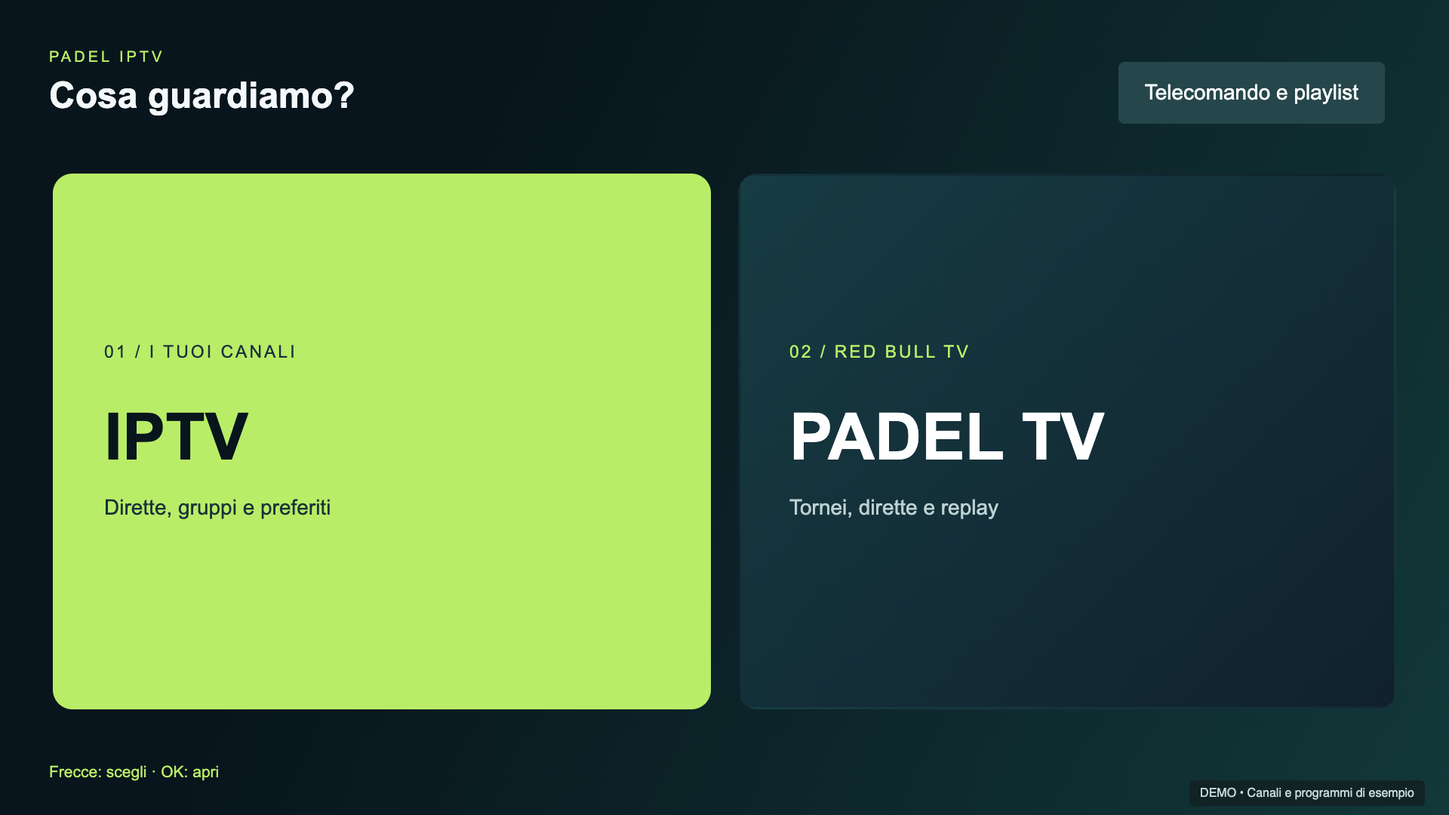
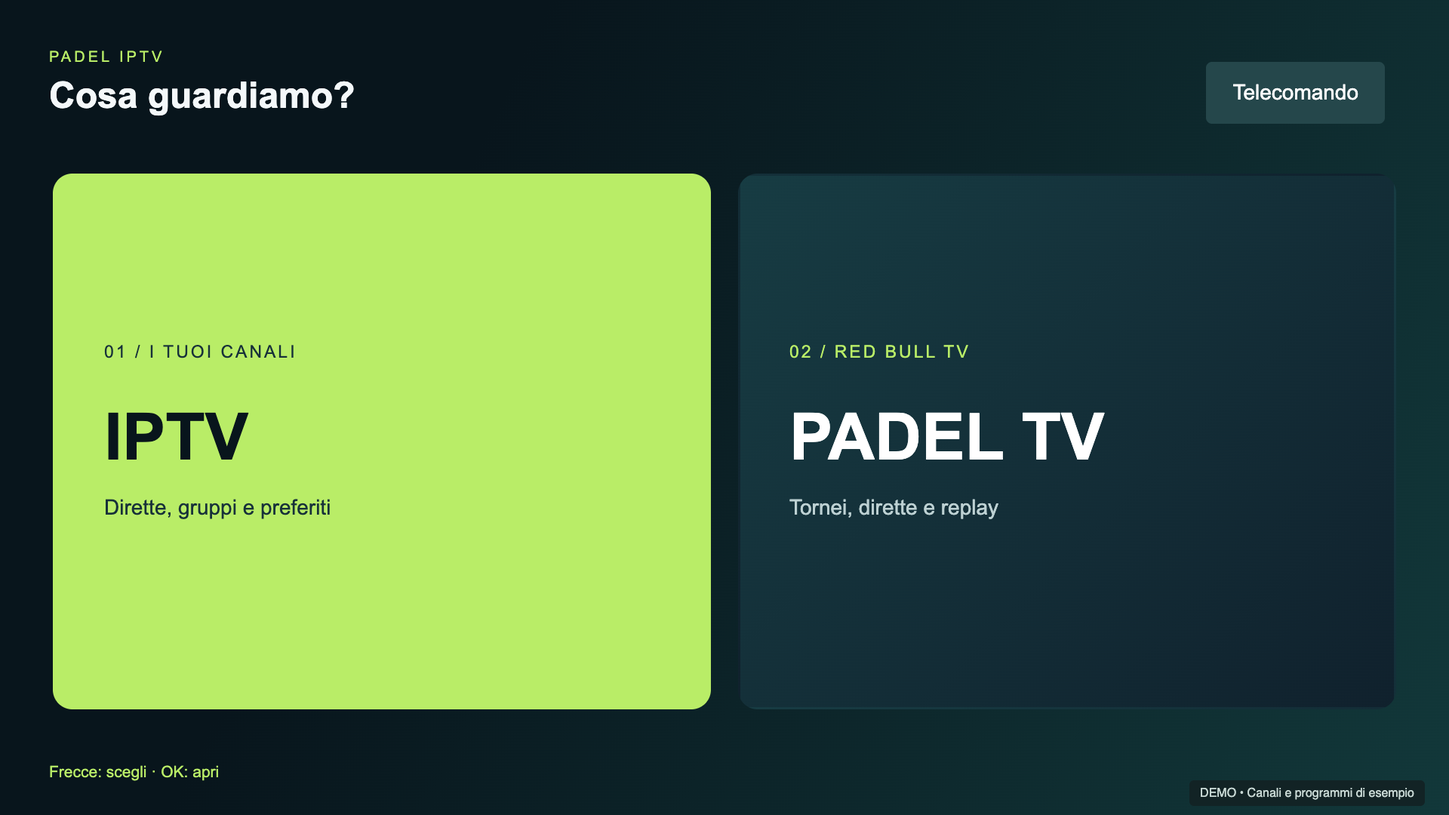
Fix Samsung adaptive resolution with exact bitrate variant matching

Changed region(s): [[0.75, 0.0611, 0.9375, 0.1528]]

diff --git a/tizen/avplay-media.js b/tizen/avplay-media.js
@@ -6,9 +6,14 @@ function create(av,emit){
  function fail(e){wantPlay=false;paused=true;error={code:4,message:String(e&&e.message||e)};fire('error');}
  function close(){generation++;prepared=false;wantPlay=false;paused=true;time=0;duration=NaN;tracks=[];selected=-1;width=0;height=0;lastSizeCheck=-1;error=null;try{if(av.getState()!=='NONE'){try{av.stop();}catch(ignore){}av.close();}}catch(ignore){}}
  function refreshTracks(){var list=av.getTotalTrackInfo()||[],current=av.getCurrentStreamInfo()||[];current.forEach(function(t){if(t.type==='AUDIO')selected=t.index;});list.forEach(function(t){if(t.type!=='VIDEO')return;try{var info=JSON.parse(t.extra_info||'{}');width=+info.Width||+info.width||0;height=+info.Height||+info.height||0;}catch(ignore){}});tracks=list.filter(function(t){return t.type==='AUDIO';}).map(function(t){var info={};try{info=JSON.parse(t.extra_info||'{}');}catch(ignore){}var track={index:t.index,language:info.language||info.lang||'',label:info.track_lang||info.language||''};Object.defineProperty(track,'enabled',{get:function(){return selected===t.index;},set:function(value){if(!value||selected===t.index)return;try{av.setSelectTrack('AUDIO',t.index);selected=t.index;fire('audiochange');}catch(e){fire('audioselectionerror');}}});return track;});tracks.addEventListener=function(name,fn){if(name==='change')api.onAudioChange=fn;};}
- function refreshVideoSize(){if(!prepared)return;try{(av.getCurrentStreamInfo()||[]).forEach(function(t){if(t.type!=='VIDEO')return;var info=JSON.parse(t.extra_info||'{}'),w=+info.Width||+info.width||0,h=+info.Height||+info.height||0;if(w&&h){width=w;height=h;}});}catch(ignore){}}
+ function refreshVideoSize(){if(!prepared)return;try{(av.getCurrentStreamInfo()||[]).forEach(function(t){if(t.type!=='VIDEO')return;var info=JSON.parse(t.extra_info||'{}'),w=+info.Width||+info.width||0,h=+info.Height||+info.height||0,bitrate=+info.Bit_rate||+info.bit_rate||+info.bitrate||0;
+ // Tizen 4 HLS keeps the initial Width/Height/index, but updates Bit_rate.
+ // Match only the exact bitrate advertised by AVPlay, never estimate pixels.
+ if(bitrate){var matches={},count=0,match=null;(av.getTotalTrackInfo()||[]).forEach(function(v){if(v.type!=='VIDEO')return;var d={};try{d=JSON.parse(v.extra_info||'{}');}catch(ignore){return;}var rate=+d.Bit_rate||+d.bit_rate||+d.bitrate||0,vw=+d.Width||+d.width||0,vh=+d.Height||+d.height||0,key=vw+'x'+vh;if(rate===bitrate&&vw&&vh&&!matches[key]){matches[key]=true;count++;match={width:vw,height:vh};}});if(count===1){w=match.width;h=match.height;}else if(count>1){w=0;h=0;}}
+ width=w;height=h;});}catch(ignore){}}
+
  function play(){wantPlay=true;if(!prepared)return;try{av.play();paused=false;fire('playing');}catch(e){fail(e);}}
- var api={refreshVideoSize:refreshVideoSize,addEventListener:null,onAudioChange:null,load:function(){var next=source;close();if(!next)return;source=next;var mine=generation;try{av.open(source);av.setDisplayRect(0,0,1920,1080);av.setDisplayMethod('PLAYER_DISPLAY_MODE_LETTER_BOX');av.setListener({onbufferingstart:function(){if(mine===generation)fire('waiting');},onbufferingcomplete:function(){if(mine===generation&&!paused)fire('playing');},oncurrentplaytime:function(ms){if(mine!==generation)return;time=ms/1000;if(lastSizeCheck<0||Math.abs(time-lastSizeCheck)>=2){lastSizeCheck=time;refreshVideoSize();}fire('timeupdate');},onstreamcompleted:function(){if(mine!==generation)return;paused=true;fire('ended');},onerror:function(e){if(mine===generation)fail(e);}});av.prepareAsync(function(){if(mine!==generation)return;prepared=true;duration=av.getDuration()/1000;try{refreshTracks();refreshVideoSize();}catch(ignore){}fire('loadedmetadata');if(wantPlay)play();},function(e){if(mine===generation)fail(e);});}catch(e){fail(e);}},play:play,pause:function(){wantPlay=false;if(!prepared)return;try{if(av.getState()==='PLAYING'){av.pause();paused=true;fire('pause');}}catch(e){fail(e);}},removeAttribute:function(name){if(name==='src')source='';},close:close};
+ var api={refreshVideoSize:refreshVideoSize,addEventListener:null,onAudioChange:null,load:function(){var next=source;close();if(!next)return;source=next;var mine=generation;try{av.open(source);av.setDisplayRect(0,0,1920,1080);av.setDisplayMethod('PLAYER_DISPLAY_MODE_LETTER_BOX');av.setListener({onevent:function(name){if(mine!==generation)return;if(name==='PLAYER_MSG_RESOLUTION_CHANGED'||name==='PLAYER_MSG_BITRATE_CHANGE'){refreshVideoSize();fire('resize');}},onbufferingstart:function(){if(mine===generation)fire('waiting');},onbufferingcomplete:function(){if(mine===generation&&!paused)fire('playing');},oncurrentplaytime:function(ms){if(mine!==generation)return;time=ms/1000;if(lastSizeCheck<0||Math.abs(time-lastSizeCheck)>=2){lastSizeCheck=time;refreshVideoSize();}fire('timeupdate');},onstreamcompleted:function(){if(mine!==generation)return;paused=true;fire('ended');},onerror:function(e){if(mine===generation)fail(e);}});av.prepareAsync(function(){if(mine!==generation)return;prepared=true;duration=av.getDuration()/1000;try{refreshTracks();refreshVideoSize();}catch(ignore){}fire('loadedmetadata');if(wantPlay)play();},function(e){if(mine===generation)fail(e);});}catch(e){fail(e);}},play:play,pause:function(){wantPlay=false;if(!prepared)return;try{if(av.getState()==='PLAYING'){av.pause();paused=true;fire('pause');}}catch(e){fail(e);}},removeAttribute:function(name){if(name==='src')source='';},close:close};
  Object.defineProperties(api,{src:{get:function(){return source;},set:function(v){source=String(v||'');}},paused:{get:function(){return paused;}},duration:{get:function(){return duration;}},currentTime:{get:function(){return time;},set:function(v){if(!prepared||!isFinite(v))return;var mine=generation;av.seekTo(Math.max(0,v*1000),function(){if(mine===generation){time=v;fire('timeupdate');}},function(e){if(mine===generation)fail(e);});}},error:{get:function(){return error;}},audioTracks:{get:function(){tracks.addEventListener=function(name,fn){if(name==='change')api.onAudioChange=fn;};return tracks;}},videoWidth:{get:function(){return width;}},videoHeight:{get:function(){return height;}},readyState:{get:function(){return prepared?4:0;}}});
  return api;
 }

diff --git a/docs/index.html b/docs/index.html
@@ -1,6 +1,6 @@
 <!doctype html><html lang="it"><head><meta charset="utf-8"><meta name="viewport" content="width=device-width,initial-scale=1"><meta name="description" content="Padel IPTV per LG webOS e Samsung Tizen: i tuoi canali M3U, guida TV, tornei di padel e telecomando dal cellulare."><meta name="theme-color" content="#091b20"><title>Padel IPTV — I tuoi canali. Il tuo padel.</title><link rel="icon" href="assets/icon.svg"><link rel="stylesheet" href="style.css"></head><body>
 <header class="nav"><a class="brand" href="#"><img src="assets/icon.svg" alt="" width="42" height="42">Padel IPTV</a><nav aria-label="Principale"><a href="#funzioni">Funzioni</a><a href="#schermate">Schermate</a><a href="https://github.com/spacecdr/PadelIPTV">GitHub ↗</a></nav></header>
-<main><section class="hero"><div class="intro"><p class="eyebrow">LG WEBOS + SAMSUNG TIZEN / v0.6.3</p><h1>I tuoi canali.<br>Il tuo <em>padel.</em></h1><p class="lead">Dal programma di stasera alla prossima semifinale. IPTV e Padel TV, insieme sul grande schermo.</p><div class="actions"><a class="button primary" href="https://github.com/spacecdr/PadelIPTV/releases/download/v0.6.3/it.pepis.padel.tv_0.6.3_all.ipk">Scarica per webOS <span>↓</span></a><a class="button primary" href="https://github.com/spacecdr/PadelIPTV/releases/download/v0.6.3/PadelIPTV-0.6.3-tizen-arm-unsigned.wgt">Scarica per Tizen ↓</a><a class="button secondary" href="#installa">Come si installa ↗</a></div><p class="fine">LG: .ipk · Samsung: .wgt da firmare · Nessuna playlist inclusa</p></div><a class="hero-screen" href="assets/home.png"><img src="assets/home.png" width="1920" height="1080" alt="Home con IPTV a sinistra e Padel TV a destra"><span>Due sezioni. Un solo telecomando.</span></a></section>
+<main><section class="hero"><div class="intro"><p class="eyebrow">LG WEBOS + SAMSUNG TIZEN / v0.6.4</p><h1>I tuoi canali.<br>Il tuo <em>padel.</em></h1><p class="lead">Dal programma di stasera alla prossima semifinale. IPTV e Padel TV, insieme sul grande schermo.</p><div class="actions"><a class="button primary" href="https://github.com/spacecdr/PadelIPTV/releases/download/v0.6.4/it.pepis.padel.tv_0.6.4_all.ipk">Scarica per webOS <span>↓</span></a><a class="button primary" href="https://github.com/spacecdr/PadelIPTV/releases/download/v0.6.4/PadelIPTV-0.6.4-tizen-arm-unsigned.wgt">Scarica per Tizen ↓</a><a class="button secondary" href="#installa">Come si installa ↗</a></div><p class="fine">LG: .ipk · Samsung: .wgt da firmare · Nessuna playlist inclusa</p></div><a class="hero-screen" href="assets/home.png"><img src="assets/home.png" width="1920" height="1080" alt="Home con IPTV a sinistra e Padel TV a destra"><span>Due sezioni. Un solo telecomando.</span></a></section>
 <div class="strip"><span>01 <b>I tuoi canali M3U</b></span><span>02 <b>Gli ultimi 10 tornei</b></span><span>03 <b>Il telefono fa da telecomando</b></span></div>
 <section id="funzioni"><div class="section-head"><p class="eyebrow">TUTTO A PORTATA DI FRECCIA</p><h2>Pensata per guardare.<br>E continuare a guardare.</h2></div><div class="features"><article><span class="number">01 / IPTV</span><h3>Il canale giusto,<br>senza cercarlo ogni volta.</h3><p>Bouquet, ricerca e preferiti. Metti in cima i gruppi che usi di più e riparti dall'ultimo canale.</p></article><article><span class="number">02 / IN RIPRODUZIONE</span><h3>La lista compare.<br>Il video continua.</h3><p>Premi su per sfogliare i canali in trasparenza. Sinistra e destra scorrono i bouquet; CH+/CH− fanno zapping su Samsung e sul telecomando web. Su LG usa le frecce a info nascoste.</p></article><article><span class="number">03 / GUIDA TV</span><h3>Adesso, dopo.<br>Tutto in un colpo d'occhio.</h3><p>Logo, programma attuale, prossimo appuntamento e avanzamento. Un pannello leggibile, poi di nuovo solo il video.</p></article></div></section>
 <section id="schermate" class="gallery"><div class="section-head"><p class="eyebrow">DENTRO L'APP</p><h2>Dal catalogo al campo.</h2><p>Padel TV mostra il catalogo reale Red Bull TV, acquisito il 10 ottobre 2026. Solo le schermate IPTV usano canali e programmi di esempio, con un campo illustrato.</p></div><div class="shots"><figure><a href="assets/playlist.png"><img loading="lazy" src="assets/playlist.png" width="1920" height="1080" alt="Pannello TV per inserire o modificare URL M3U con indirizzo dimostrativo"></a><figcaption><b>La playlist, direttamente sulla TV.</b> Inserisci o modifica l’URL M3U e premi Salva e carica.</figcaption></figure><figure><a href="assets/channels.png"><img loading="lazy" src="assets/channels.png" width="1920" height="1080" alt="Lista IPTV con canali campione del digitale terrestre"></a><figcaption><b>La tua TV, in ordine.</b> Canali, bouquet e preferiti.</figcaption></figure><figure><a href="assets/player.png"><img loading="lazy" src="assets/player.png" width="1920" height="1080" alt="Pannello trasparente con programma attuale, successivo e avanzamento"></a><figcaption><b>Sai sempre cosa stai guardando.</b> Guida XMLTV in background.</figcaption></figure><figure><a href="assets/overlay.png"><img loading="lazy" src="assets/overlay.png" width="1920" height="1080" alt="Lista canali sovrapposta alla riproduzione"></a><figcaption><b>Cambia idea, senza perdere il filo.</b> Lista sopra il video.</figcaption></figure><figure><a href="assets/padel.png"><img loading="lazy" src="assets/padel.png" width="1920" height="1080" alt="Catalogo reale Red Bull TV con tornei, miniature e sessioni disponibili"></a><figcaption><b>Solo padel.</b> Tornei recenti, replay, dirette e sessioni imminenti.</figcaption></figure><figure><a href="assets/padel-replay.png"><img loading="lazy" src="assets/padel-replay.png" width="1920" height="1080" alt="Replay reali del torneo precedente nel catalogo Padel TV"></a><figcaption><b>Rivivi il torneo.</b> I replay disponibili nel catalogo Red Bull TV.</figcaption></figure></div></section>

diff --git a/app/index.html b/app/index.html
@@ -1,6 +1,6 @@
 <!doctype html><html lang="it"><head><meta charset="utf-8"><meta name="viewport" content="width=1920"><title>Padel IPTV</title><link rel="stylesheet" href="style.css"></head><body>
 <video id="video" playsinline></video>
-<main id="hub"><header><div><div class="eyebrow">PADEL IPTV</div><h1>Cosa guardiamo?</h1></div><button id="remote-open">Telecomando e playlist</button></header><div class="hub-cards"><button id="open-iptv"><span>01 / I TUOI CANALI</span><strong>IPTV</strong><p>Dirette, gruppi e preferiti</p></button><button id="open-padel"><span>02 / RED BULL TV</span><strong>PADEL TV</strong><p>Tornei, dirette e replay</p></button></div><footer>Frecce: scegli · OK: apri</footer></main>
+<main id="hub"><header><div><div class="eyebrow">PADEL IPTV</div><h1>Cosa guardiamo?</h1></div><button id="remote-open">Telecomando</button></header><div class="hub-cards"><button id="open-iptv"><span>01 / I TUOI CANALI</span><strong>IPTV</strong><p>Dirette, gruppi e preferiti</p></button><button id="open-padel"><span>02 / RED BULL TV</span><strong>PADEL TV</strong><p>Tornei, dirette e replay</p></button></div><footer>Frecce: scegli · OK: apri</footer></main>
 <main id="iptv" style="display:none"><header><div><div class="eyebrow">I TUOI CANALI</div><h1>IPTV</h1></div><div class="toolbar"><button id="iptv-home">Home</button><button id="iptv-playlist">Playlist</button><button id="iptv-search-toggle" aria-expanded="false" aria-controls="iptv-search-panel">Cerca</button><button id="iptv-refresh">Aggiorna lista</button><button id="iptv-last">Ultimo canale</button></div></header><div class="iptv-layout"><nav id="iptv-groups"></nav><div class="iptv-content"><div id="iptv-search-panel" style="display:none"><input id="iptv-search" placeholder="Cerca un canale" aria-label="Cerca un canale"><button id="iptv-search-clear">Azzera</button><button id="iptv-search-close">Chiudi</button></div><div id="iptv-list"></div><div id="iptv-pages"></div></div></div><footer id="iptv-message"></footer></main>
 <aside id="playlist-panel" role="dialog" aria-modal="true" aria-labelledby="playlist-tv-title" style="display:none"><div class="eyebrow">IPTV / PLAYLIST</div><h2 id="playlist-tv-title">Carica o modifica la playlist</h2><p>Inserisci l’indirizzo della tua lista M3U. Puoi modificarlo anche in seguito.</p><label for="playlist-tv-url">URL della playlist</label><input id="playlist-tv-url" type="url" maxlength="4096" placeholder="https://…" autocomplete="off" autocapitalize="none" spellcheck="false"><div class="playlist-actions"><button id="playlist-tv-save">Salva e carica</button><button id="playlist-tv-close">Chiudi</button></div><p id="playlist-tv-message" role="status"></p></aside>
 <aside id="channel-overlay" style="display:none"><div class="eyebrow">IPTV / IN RIPRODUZIONE</div><h2 id="overlay-group">Canali</h2><div id="overlay-list"></div><p>↑ ↓ lista · ← → bouquet · CH+/− canale · OK scegli<br>Blu: preferito · Back: chiudi</p></aside>

diff --git a/INSTALLAZIONE.md b/INSTALLAZIONE.md
@@ -1,6 +1,6 @@
 # Installare Padel IPTV — webOS e Tizen
 
-Versione 0.6.3. Scaricare i file dalla [release ufficiale](https://github.com/spacecdr/PadelIPTV/releases/latest). Non è un'app degli store LG/Samsung: si installa in modalità sviluppatore.
+Versione 0.6.4. Scaricare i file dalla [release ufficiale](https://github.com/spacecdr/PadelIPTV/releases/latest). Non è un'app degli store LG/Samsung: si installa in modalità sviluppatore.
 
 ## Prima di iniziare
 
@@ -46,7 +46,7 @@ Inserire la passphrase mostrata da Developer Mode. Vedere la [procedura LG](http
 Aprire il terminale nella cartella del file scaricato:
 
 ```sh
-ares-install --device miaTV it.pepis.padel.tv_0.6.3_all.ipk
+ares-install --device miaTV it.pepis.padel.tv_0.6.4_all.ipk
 ares-launch --device miaTV it.pepis.padel.tv
 ```
 
@@ -85,11 +85,11 @@ Il DUID non è l'IP né il nome commerciale della TV. Il certificato di un'altra
 
 ### 4. Firmare il compilato scaricato
 
-Scaricare `PadelIPTV-0.6.3-tizen-arm-unsigned.wgt`. È un archivio ZIP con app e server ARM pronti, **non installabile finché non è firmato**. Estrarlo con un gestore ZIP (su Windows si può copiare/rinominare il file in `.zip`), oppure:
+Scaricare `PadelIPTV-0.6.4-tizen-arm-unsigned.wgt`. È un archivio ZIP con app e server ARM pronti, **non installabile finché non è firmato**. Estrarlo con un gestore ZIP (su Windows si può copiare/rinominare il file in `.zip`), oppure:
 
 ```sh
 mkdir -p "$HOME/PadelIPTV-install/app" "$HOME/PadelIPTV-install/signed"
-unzip PadelIPTV-0.6.3-tizen-arm-unsigned.wgt -d "$HOME/PadelIPTV-install/app"
+unzip PadelIPTV-0.6.4-tizen-arm-unsigned.wgt -d "$HOME/PadelIPTV-install/app"
 tizen build-web -- "$HOME/PadelIPTV-install/app"
 tizen package -t wgt -s PROFILO_SAMSUNG -o "$HOME/PadelIPTV-install/signed" -- "$HOME/PadelIPTV-install/app/.buildResult"
 ```
@@ -111,7 +111,7 @@ In alternativa, Device Manager offre **Permit to install applications** sul disp
 
 **Senza telefono o computer:** aprire IPTV e premere **Playlist** (oppure **Carica playlist sulla TV** se non ci sono canali). Inserire l’URL M3U con la tastiera a schermo, quindi **Salva e carica**. Per modificarlo, riaprire lo stesso pannello: l’indirizzo salvato è già compilato. Con le frecce verticali si passa dal campo ai pulsanti; Chiudi/Back torna al catalogo. Durante il download attendere l’esito; se la lista è vuota o non valida resta quella precedente. La lettura dell’URL salvato avviene nell’app, senza esporlo nelle API di stato del telecomando.
 
-**Dal browser (facoltativo):** Aprire **Telecomando e playlist** nella Home. Visitare dal telefono/computer l'indirizzo mostrato dalla TV (`http://IP_TV:8768`), inserire il codice e caricare l'URL HTTP/HTTPS della propria M3U, anche senza estensione. Il codice e l'abbinamento vengono conservati; **Revoca dispositivi** li sostituisce. L'app deve restare aperta per usare il telecomando. Il computer può essere spento dopo l'installazione.
+**Dal browser (facoltativo):** Aprire **Telecomando** nella Home. Visitare dal telefono/computer l'indirizzo mostrato dalla TV (`http://IP_TV:8768`), inserire il codice e caricare l'URL HTTP/HTTPS della propria M3U, anche senza estensione. Il codice e l'abbinamento vengono conservati; **Revoca dispositivi** li sostituisce. L'app deve restare aperta per usare il telecomando. Il computer può essere spento dopo l'installazione.
 
 Nessun canale IPTV è precaricato. La [M3U di esempio](examples/digitale-terrestre.m3u) contiene URL non riproducibili. Le guide EPG vengono scaricate automaticamente; associazione e copertura dipendono dalla sorgente. I contenuti padel dipendono da Red Bull TV e dalla disponibilità territoriale. Per i tasti vedere [README](README.md#comandi).
 
@@ -126,7 +126,7 @@ Nessun canale IPTV è precaricato. La [M3U di esempio](examples/digitale-terrest
 | Samsung: errore 118012 | Eseguire install-permit/Permit to install applications; controllare comunque certificati e collegamento |
 | Samsung: file non installabile | Non usare direttamente l'unsigned WGT; firmare e rinominare senza spazi |
 | Telecomando non raggiungibile | App aperta, indirizzo mostrato dalla TV, HTTP e porta 8768; su Tizen serve supporto NaCl ARM |
-| Lista non salvata / errore spazio | Usare 0.6.3 (archivio nativo Samsung, senza la quota IndexedDB per i nuovi salvataggi), controllare spazio TV; non cancellare dati senza conservarne la configurazione |
+| Lista non salvata / errore spazio | Usare 0.6.4 (archivio nativo Samsung, senza la quota IndexedDB per i nuovi salvataggi), controllare spazio TV; non cancellare dati senza conservarne la configurazione |
 | Canale senza video/EPG | Provare una sorgente compatibile e consultare lo stato EPG nel telecomando: il matching non garantisce programmi attuali |
 
 Non aprire la porta 8768 su Internet: il telecomando HTTP è pensato per la rete locale. I pacchetti non sono aggiornati automaticamente; controllare le nuove release su GitHub.

diff --git a/README.md b/README.md
@@ -3,7 +3,7 @@
 <p align="center">I tuoi canali. Il tuo padel. Sulla stessa TV.</p>
 <p align="center"><a href="https://spacecdr.github.io/PadelIPTV/">Presentazione</a> · <a href="https://github.com/spacecdr/PadelIPTV/releases/latest">Download webOS / Tizen</a> · <a href="DEVELOPMENT.md">Sviluppo</a></p>
 
-App indipendente per **LG webOS e Samsung Tizen**: player IPTV per le proprie playlist M3U e catalogo dedicato al padel su Red Bull TV, con telecomando web ospitato direttamente sul televisore. Versione **0.6.3**: `.ipk` per LG e `.wgt` precompilato da firmare per Samsung, installabili in modalità sviluppatore.
+App indipendente per **LG webOS e Samsung Tizen**: player IPTV per le proprie playlist M3U e catalogo dedicato al padel su Red Bull TV, con telecomando web ospitato direttamente sul televisore. Versione **0.6.4**: `.ipk` per LG e `.wgt` precompilato da firmare per Samsung, installabili in modalità sviluppatore.
 
 **Samsung:** verificata su UE55NU7400/Tizen 4.0. Il WGT include il modulo ARM del telecomando e la correzione dei preferiti bouquet; richiede firma con certificati propri e DUID della TV. Non è un pacchetto universale per tutte le Samsung.
 
@@ -43,8 +43,8 @@ La [guida completa all’installazione](INSTALLAZIONE.md) descrive requisiti, ac
 
 | TV | File nella release | Preparazione |
 |---|---|---|
-| LG webOS — verificata UM7390PLC, webOS 4.10.2-29 | `it.pepis.padel.tv_0.6.3_all.ipk` | Account LG Developer, app Developer Mode, CLI webOS; app e servizio già inclusi |
-| Samsung Tizen — verificata UE55NU7400, Tizen 4.0 | `PadelIPTV-0.6.3-tizen-arm-unsigned.wgt` | Account Samsung, Tizen Studio con estensioni TV/certificati, firma con il proprio DUID |
+| LG webOS — verificata UM7390PLC, webOS 4.10.2-29 | `it.pepis.padel.tv_0.6.4_all.ipk` | Account LG Developer, app Developer Mode, CLI webOS; app e servizio già inclusi |
+| Samsung Tizen — verificata UE55NU7400, Tizen 4.0 | `PadelIPTV-0.6.4-tizen-arm-unsigned.wgt` | Account Samsung, Tizen Studio con estensioni TV/certificati, firma con il proprio DUID |
 
 [Scarica la release](https://github.com/spacecdr/PadelIPTV/releases/latest). Il WGT è già compilato ma **non firmato**: contiene anche il server nativo ARM, senza certificati personali. Non occorre compilare C++ o installare una VM per usarlo. Il supporto NaCl necessario su Samsung limita la compatibilità; TV recenti non collaudate.
 
@@ -54,7 +54,7 @@ Gli ID `it.pepis.padel.tv` (LG) e `PadelIPTV1.PadelIPTV` (Samsung) restano stabi
 
 Puoi caricare e modificare l’indirizzo direttamente da **IPTV → Playlist → Salva e carica**. Il pannello ripropone l’URL attuale, accetta link HTTP/HTTPS anche senza estensione e mostra esito/errori. Alla prima apertura senza canali compare anche **Carica playlist sulla TV**.
 
-In alternativa, apri **Telecomando e playlist** nella Home. Dal browser del telefono o computer visita l'indirizzo mostrato dalla TV (porta HTTP **8768**) e inserisci il codice di abbinamento. Nella sezione Playlist IPTV incolla l'URL HTTP/HTTPS della tua M3U: può essere anche un link senza estensione `.m3u`. Una lista vuota o non valida non sostituisce una lista già funzionante.
+In alternativa, apri **Telecomando** nella Home. Dal browser del telefono o computer visita l'indirizzo mostrato dalla TV (porta HTTP **8768**) e inserisci il codice di abbinamento. Nella sezione Playlist IPTV incolla l'URL HTTP/HTTPS della tua M3U: può essere anche un link senza estensione `.m3u`. Una lista vuota o non valida non sostituisce una lista già funzionante.
 
 La release parte senza playlist. [examples/digitale-terrestre.m3u](examples/digitale-terrestre.m3u) illustra il formato con URL `example.invalid` volutamente non riproducibili: sostituiscili con sorgenti che sei autorizzato a usare. I nomi di esempio non indicano canali forniti dal progetto.
 

diff --git a/tizen/README.md b/tizen/README.md
@@ -1,12 +1,12 @@
 # Padel IPTV per Samsung Tizen
 
-Porting installato e verificato su **Samsung UE55NU7400 (2018), Tizen 4.0 / Chromium 56**, il 10 ottobre 2026. Disponibile nella release **0.6.3** insieme al pacchetto webOS. Per installare il WGT precompilato, seguire [INSTALLAZIONE.md](../INSTALLAZIONE.md#samsung-tizen): non serve ricompilare il modulo nativo.
+Porting installato e verificato su **Samsung UE55NU7400 (2018), Tizen 4.0 / Chromium 56**, il 10 ottobre 2026. Disponibile nella release **0.6.4** insieme al pacchetto webOS. Per installare il WGT precompilato, seguire [INSTALLAZIONE.md](../INSTALLAZIONE.md#samsung-tizen): non serve ricompilare il modulo nativo.
 
 ## Funzioni
 
 Home IPTV/Padel, catalogo pubblico degli ultimi 10 tornei, AVPlay per video e tracce audio, playlist M3U, gruppi/bouquet e preferiti, zapping CH+/CH−, lista trasparente con Su, loghi, EPG attuale/successivo e telecomando web sulla porta **8768**. Tutti i servizi vengono eseguiti sulla TV: non serve un Mac o server esterno acceso. Il telecomando è disponibile mentre l'app rimane aperta.
 
-La playlist parte vuota. Si può inserire o modificare direttamente da **IPTV → Playlist**, con tastiera a schermo e Salva e carica. Per usare il browser, aprire **Telecomando e playlist** sulla Home e visitare dal telefono/computer l'indirizzo mostrato, sulla stessa rete. Il codice di abbinamento e i token sono persistenti; Revoca dispositivi li sostituisce. Il browser accetta frecce, Invio e Backspace/Esc, con ripetizione nelle liste. Inserire l'URL M3U nel telecomando; link HTTP/HTTPS senza estensione sono accettati. Una lista vuota o errata non sostituisce quella salvata.
+La playlist parte vuota. Si può inserire o modificare direttamente da **IPTV → Playlist**, con tastiera a schermo e Salva e carica. Per usare il browser, aprire **Telecomando** sulla Home e visitare dal telefono/computer l'indirizzo mostrato, sulla stessa rete. Il codice di abbinamento e i token sono persistenti; Revoca dispositivi li sostituisce. Il browser accetta frecce, Invio e Backspace/Esc, con ripetizione nelle liste. Inserire l'URL M3U nel telecomando; link HTTP/HTTPS senza estensione sono accettati. Una lista vuota o errata non sostituisce quella salvata.
 
 ## Architettura
 
@@ -68,3 +68,5 @@ TV reale: catalogo 10 tornei, live padel e pausa/riprendi; playlist via HTTPS co
 - [Certificati Samsung](https://developer.samsung.com/smarttv/develop/getting-started/setting-up-sdk/creating-certificates.html)
 
 Correzione bouquet (10 ottobre 2026): eliminata la doppia scrittura della playlist nei salvataggi temporanei, aggiunto il privilegio Tizen unlimitedstorage e compressione dei record grandi in Worker. Il dispositivo aveva restituito QuotaExceededError. Verificati più bouquet contemporanei e persistenza alla riapertura; test automatico verifica che un commit fallito conservi il dato precedente.
+
+Su Tizen 4 il campo Width/Height del video corrente può restare quello iniziale durante HLS adattivo. Il badge usa il Bit_rate corrente per trovare una corrispondenza esatta e univoca tra le risoluzioni di getTotalTrackInfo; nessuna stima della risoluzione dal bitrate. Si aggiorna anche agli [eventi AVPlay di cambio bitrate/risoluzione](https://developer.samsung.com/smarttv/develop/api-references/samsung-product-api-references/avplay-api.html).

diff --git a/HANDOFF.md b/HANDOFF.md
@@ -25,3 +25,5 @@ Collaudo reale completato anche LG: frecceinfo non cambiano canale, pausa focus,
 11 ottobre — release 0.6.2: pannello IPTV → Playlist per inserire/modificare l’URL direttamente sulla TV, precompilato con l’indirizzo salvato. Salva e carica con stato download/errori; lista non valida preserva la precedente. Endpoint playlistConfig locale (sender app su Luna), non esposto nell’API HTTP di stato. Test Tizen editor/save/reload/errore/Back, suite servizi/EPG/remote, regressione browser IPTV passati. Installata 0.6.2 su entrambe le TV: lettura URL, salvataggio della lista esistente e riapertura verificati. Copia privata app/service sincronizzata. Release comprende tutte le modifiche post-0.6.1 sopra, archivio nativo Samsung, HUD/CH/recenti/bouquet/badge. README/INSTALLAZIONE/sito aggiornati, screenshot IPTV sintetici aggiornati e nuova immagine playlist; immagini padel reali conservate. Pacchetti IPK e WGT ARM unsigned + checksum verificati senza dati personali/certificati.
 
 11 ottobre — 0.6.3: comandi info condivisi anche in Padel TV. OK mostra info/focus audio; Traccia Audio apre scelta, Pausa/Riprendi affiancato, frecce navigano con HUD visibile; Back chiude prima info e poi player. Seek replay con frecce solo a info nascoste, tasti rewind/forward conservati. Preferenza audio persistente con normalizzazione ISO a due/tre lettere e locale, non sovrascritta da tracce senza lingua. Badge aggiornato ogni secondo oltre a resize/timeupdate; AVPlay legge lo stream corrente anche senza eventi temporali. Test browser copre lingua dopo reload e risoluzione cambiata senza timeupdate, più regressioni AVPlay/IPTV/telecomando. Installata su LG e Samsung, collaudo video Padel reale: OK non interrompe, audio selezionato in focus, pausa/riprendi funzionanti; LG osservata da 960x540 a 1920x1080. App condivisa e manifest sincronizzati nella copia privata.
+
+11 ottobre — correzione 0.6.4: collaudo Samsung della 0.6.3 mostrava ancora 320x180 durante stream FHD: getCurrentStreamInfo manteneva Width/Height/index iniziali, mentre Bit_rate era aggiornato a 8143284. Ora refreshVideoSize associa ESATTAMENTE il bitrate corrente ai VIDEO di getTotalTrackInfo, solo se risoluzione univoca; valori ambigui non mostrati. Gestiti anche PLAYER_MSG_BITRATE_CHANGE/RESOLUTION_CHANGED. Test regressione riproduce esattamente campi iniziali fermi, salita/discesa bitrate e ambiguità; test UI passato. Installata su entrambe TV, Samsung reale mostra FHD 1920x1080 mentre i campi grezzi sono ancora 320x180: correzione confermata. Home rinominata Telecomando su LG/Samsung, documentazione e screenshot Home aggiornati.

diff --git a/DEVELOPMENT.md b/DEVELOPMENT.md
@@ -11,7 +11,7 @@ npm run test:remote
 npm run build
 ```
 
-Il risultato è `dist/it.pepis.padel.tv_0.6.3_all.ipk`. Il comando sottostante è `ares-package app service --outdir dist`: includere sempre entrambe le directory. Node/npm non sono necessari sulla TV per installare l'IPK.
+Il risultato è `dist/it.pepis.padel.tv_0.6.4_all.ipk`. Il comando sottostante è `ares-package app service --outdir dist`: includere sempre entrambe le directory. Node/npm non sono necessari sulla TV per installare l'IPK.
 
 Per verificare l'interfaccia IPTV con dati sintetici, in un terminale eseguire `python3 -m http.server 8769 --bind 127.0.0.1 --directory app`, poi `node tests/iptv-browser.cjs`. Per una porta diversa impostare `APP_URL=http://127.0.0.1:PORTA`. Il test non contatta una TV. I test unitari coprono parser M3U, persistenza, gruppi/preferiti/zapping, matcher XMLTV, gzip, fallback/cache e sicurezza del telecomando. `npm run screenshots` avvia un proprio server temporaneo e genera le immagini demo Home/IPTV/telecomando in `docs/assets`; usa solo fixture. `npm run screenshots:padel` acquisisce invece il catalogo pubblico reale Red Bull TV (torneo corrente e precedente), senza collegarsi alla TV o caricare una playlist. Richiede Internet e riflette i contenuti disponibili al momento.
 
